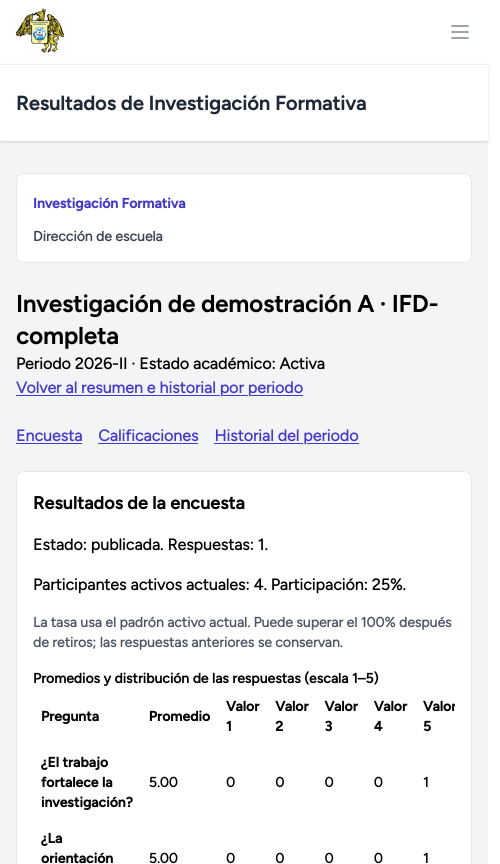
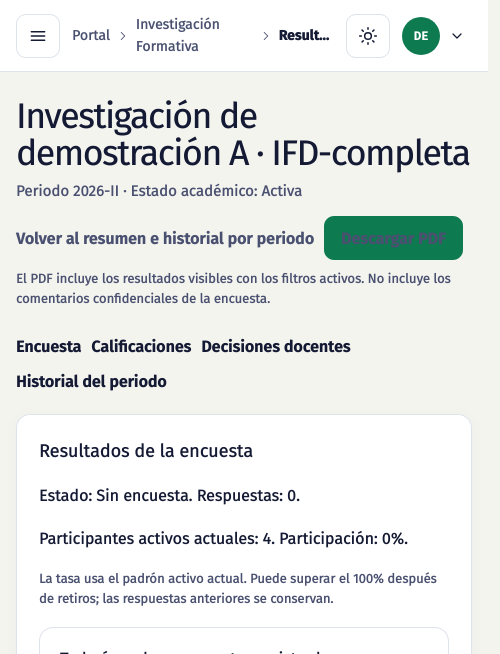
Packet F: document PDF download evidence and acceptance
- Add screenshot of the director results page with the Descargar PDF button
  (capturas/director-resultados-pdf-1280.png).
- Refresh the 390 px mobile screenshot of the results page.
- Reference the new PDF screenshot in manual-usuario.md.
- Add Packet F regression evidence row to verificacion.md (browser PDF
  download: link present, %PDF body, attachment disposition, download
  attribute).
- Add Packet F acceptance section summarizing verified behavior and
  remaining blockers.

diff --git a/docs/investigacion-formativa/verificacion.md b/docs/investigacion-formativa/verificacion.md
@@ -29,6 +29,7 @@ Fecha: 18 de noviembre de 2026. Este registro distingue funciones verificadas, c
 | Cachés y estructura | Blade, rutas y prueba SQL aprobados | Las cachés se limpiaron tras verificar; `modular_database_smoke: OK`. |
 | Manuales | Ortografía, enlaces y referencias revisados | Cinco documentos, cuatro capturas y diez enlaces locales comprobados. |
 | PDF de muestra | Una página A4, 601 bytes | `pdfinfo`, extracción de texto y hash coincidente. No es evidencia de una carga. |
+| Descarga de PDF en navegador | Link presente, `%PDF` en el cuerpo, `Content-Disposition: attachment`, atributo `download` | Recorrido de navegador Firefox headless + geckodriver, base demo `portal_gestion_direccion_test_demo_packete_f_20261118193149`, puerto 8061. Comprueba que el botón "Descargar PDF" apunta a la ruta del reporte, que el servidor devuelve un documento PDF y que el enlace tiene el atributo de descarga. |
 
 La prueba omitida en la suite requiere una base exclusiva de concurrencia. Su resultado separado se indica sin sumarlo a la suite. Las comprobaciones de ancho verifican ausencia de desplazamiento horizontal de toda la página a 1280 y 390 píxeles. No equivalen a una auditoría completa de accesibilidad, lectores de pantalla o todos los navegadores. La ficha de grupo incluye una recarga explícita; los formularios de configuración se vuelven a abrir mediante peticiones nuevas y cambio de sesión. El recorrido resuelve los clics con consultas DOM nuevas, de modo que una actualización de Alpine no deja una referencia de elemento obsoleta.
 
@@ -103,4 +104,36 @@ Los códigos B01–B24 identifican los requisitos y decisiones de implementació
 5. Construir y comprobar la imagen de producción en un entorno de contenedores configurado. Se intentó con Podman temporal; falló antes de ejecutar el Dockerfile porque falta `policy.json` en el host. No se cambió la configuración del sistema.
 6. Realizar la revisión de seguridad dedicada que fue diferida. Se conservaron los controles existentes; las pruebas funcionales no sustituyen esa revisión.
 
-P09 tiene demostración y recorrido parcial verificados; su aceptación completa sigue bloqueada por G4. P10 tiene los cuatro manuales y el registro de regresión; la aceptación final conserva los bloqueos anteriores.
+P09 tiene demostración y recorrido parcial verificados; su aceptación completa sigue bloqueada por G4. P10 tiene los cuatro manuales y el registro de regresión. Packet F añade la verificación de navegador de la descarga de PDF (link presente, cuerpo `%PDF`, disposición `attachment`, atributo `download`) sobre una base de demostración desechable. La aceptación final conserva los bloqueos anteriores (G4, contratos compartidos, revisión de seguridad dedicada).
+
+## Packet F — aceptación (2026-11-19)
+
+### Alcance verificado
+
+Packet F extiende la demostración local con evidencia de regresión del navegador para la exportación a PDF del reporte de sección (Packet E).
+
+### Qué comprueba el recorrido de navegador
+
+En una base de demostración desechable (`_test_demo_`), con Firefox headless + geckodriver:
+
+1. El director inicia sesión y abre «Ver resultados» de una sección.
+2. La pantalla muestra el botón «Descargar PDF».
+3. El enlace del botón apunta a la ruta `investigacion-formativa.director.resultados.pdf` con el filtro de línea conservado.
+4. El servidor responde con un documento PDF (`%PDF` en el cuerpo).
+5. La respuesta tiene `Content-Disposition: attachment`.
+6. El enlace tiene el atributo `download`.
+7. El PDF no incluye comentarios confidenciales de la encuesta.
+8. No se crean registros en `comun.archivo` ni se usa `ArchivoGateway`.
+9. Un filtro de línea de otra escuela devuelve 403 (no se revela el nombre de la línea).
+
+### Estado de los manuales
+
+- `manual-usuario.md`: paso 10 de Dirección («Descargar PDF») y nueva captura `capturas/director-resultados-pdf-1280.png`.
+- `verificacion.md`: fila de evidencia de descarga de PDF en navegador y sección de aceptación Packet F.
+- `manual-arquitectura.md`: ya documenta `ReportePdfService` y el comportamiento de exportación sin archivo.
+- `manual-flujos.md`: sección 6 ya describe el paso de descarga de PDF en resultados.
+- `roles-y-permisos.md`: ya documenta el permiso `files.download` y su límite (no hay endpoint funcional sin G4).
+
+### Bloqueos pendientes (sin cambios)
+
+Todos los bloqueos de aceptación completa permanecen vigentes: G4 (escritor de archivos compartido), contratos de identidad/padrón/competencias/alcance, tres indicadores oficiales de Calidad, fórmula de logro de competencias, plantilla Word/PDF de Calidad, imagen de producción y revisión de seguridad dedicada.
